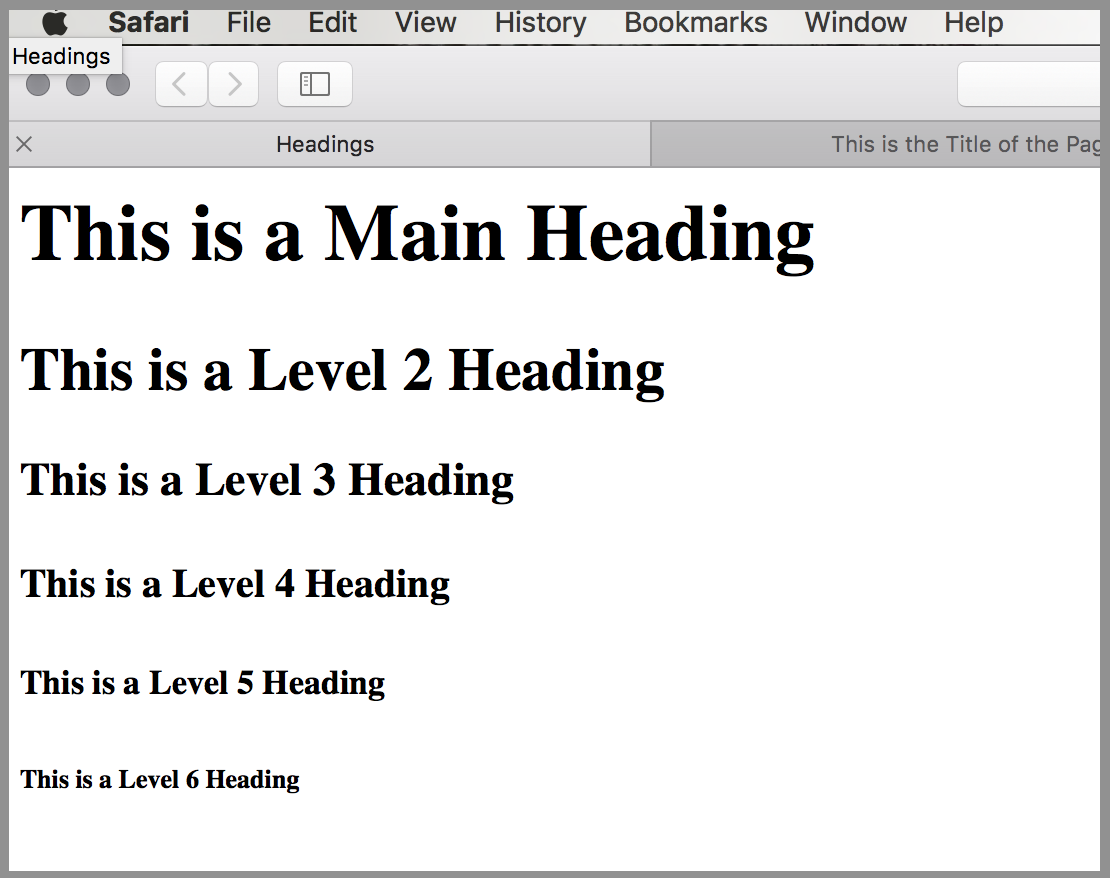
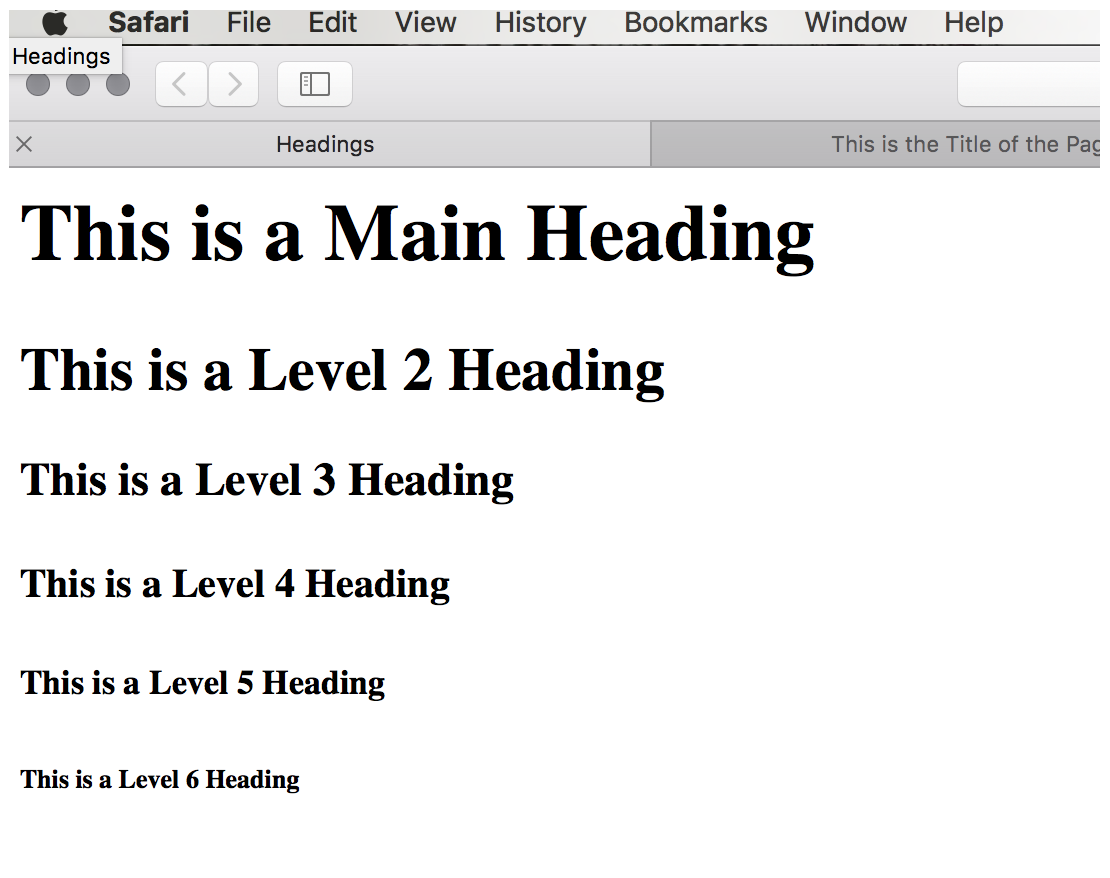
adjusted image positions and borders

Changed region(s): [[0.0, 0.0, 1.0, 1.0]]

diff --git a/css/p2pustrap-custom.scss b/css/p2pustrap-custom.scss
@@ -43,3 +43,11 @@
     top:0; left: 0;
     background-image: linear-gradient(to bottom, rgba(255, 255, 255, 0), rgba(255,255,255,0) 70%, rgba(255, 255, 255, 1));
 }
+
+img {
+	display: block;
+    // margin: auto;
+	margin-top: $padding-large-vertical;
+	margin-bottom: $padding-large-vertical;
+	border: 1px solid $gray-dark;
+}
